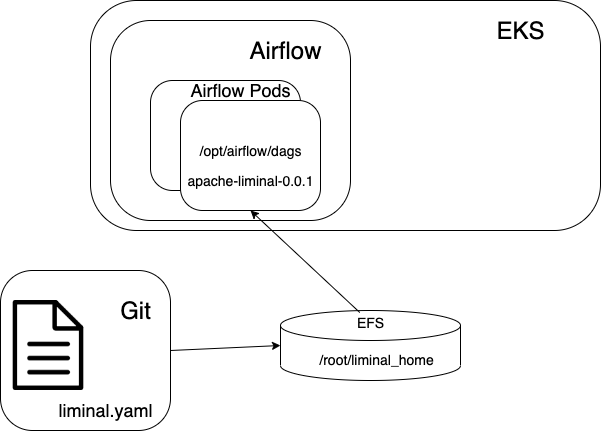
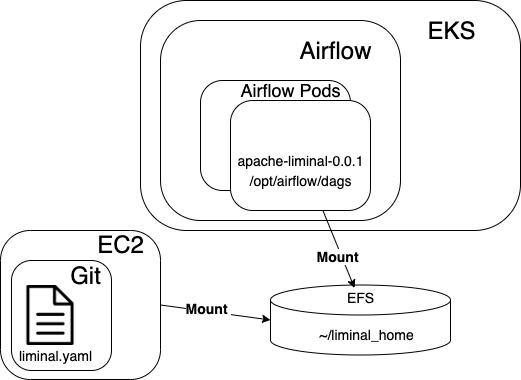
automate script to install liminal in cloud

diff --git a/docs/source/How_to_install_liminal_in_airflow_on_kubernetes.md b/docs/source/How_to_install_liminal_in_airflow_on_kubernetes.md
@@ -64,7 +64,8 @@ helm repo update
 ## Get Started
 #### Package dependency
 There are multiple ways to install liminal in Airflow and it depends on what will be useful in your environment.\
-We chose to add `apache-liminal` as a requirement package to be installed once Airflow starts.
+1. Use kubectl to execute pip install on the pods.
+2. Add `apache-liminal` as a requirement package to be installed once Airflow starts.
 
 #### Mount the EFS
 There are a couple of ways to deploy Yamls in Airflow our goal is to deploy the actual Yamls (DAGs) into airflow - by placing the Yaml files in each components\` `/opt/airflow/dags` folder.
@@ -102,7 +103,12 @@ liminal deploy --path <<<path to liminal user code>>>
 ```
 
 #### Scripted Installation
-[Use `install_liminal_in_airflow_on_kubernetes.sh`][liminal-installation-script] to install liminal in Airflow.
+Launch EC2 in the same environment of the Airflow and [Use `install_liminal_in_airflow_on_kubernetes.sh`][liminal-installation-script] in order to install liminal.
+
+Script steps to run:
+1. `install_liminal_in_airflow_on_kubernetes.sh` -o clone
+2. `install_liminal_in_airflow_on_kubernetes.sh` -o installation
+3. `install_liminal_in_airflow_on_kubernetes.sh` -o deployment
 
 ## References and other resources
 
